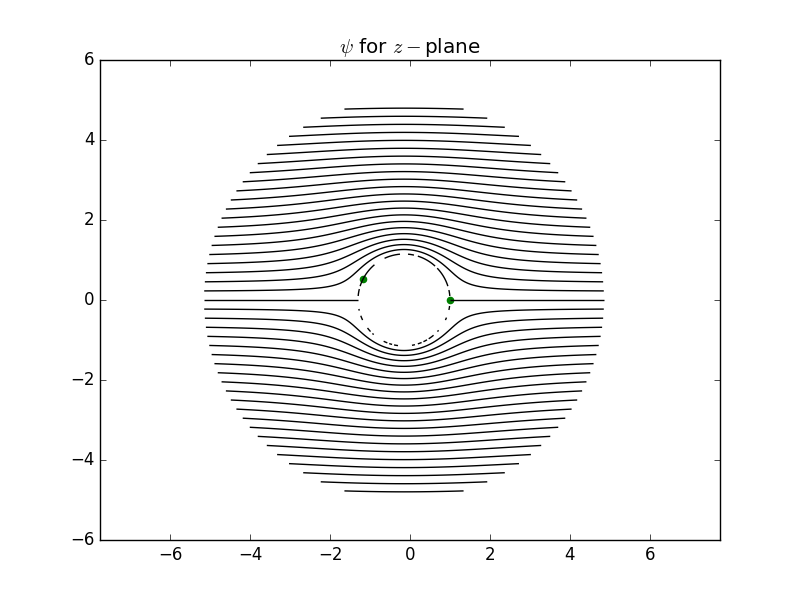
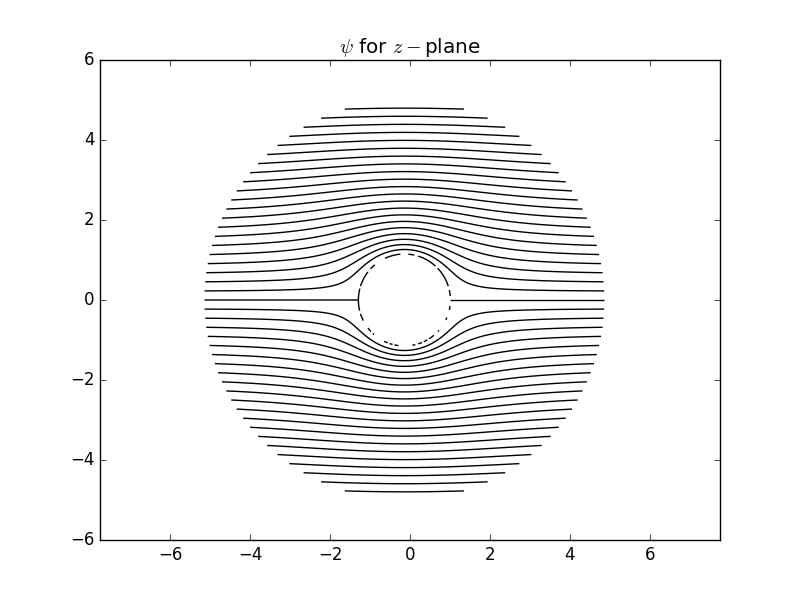
More tomorrow

diff --git a/coding-assignments/joukowski/joukowski.py b/coding-assignments/joukowski/joukowski.py
@@ -4,10 +4,10 @@ import matplotlib.pyplot as plt
 
 # Airfoil
 
-xc, yc = -0.15, 0
-R = 1.15
-
 c = 1
+
+xc, yc = -0.14, 0.0
+R = 1.15
 
 # Cylindrical grid
 
@@ -104,13 +104,14 @@ def plot_cp(x, y, cp, title=None):
 
     plt.title(title)
 
-    levels = np.linsspace(-2.0, 1.0, 100)
+    levels = np.linspace(-2.0, 1.0, 100)
     contf = plt.contourf(x, y, cp,
                          levels=levels, extend='both')
 
     cbar = plt.colorbar(contf)
     cbar.set_label('$C_p$', fontsize=16)
     cbar.ax.invert_yaxis()
+    cbar.set_ticks([-2.0, -1.0, 0.0, 1.0])
 
     plt.axis('equal')
 
